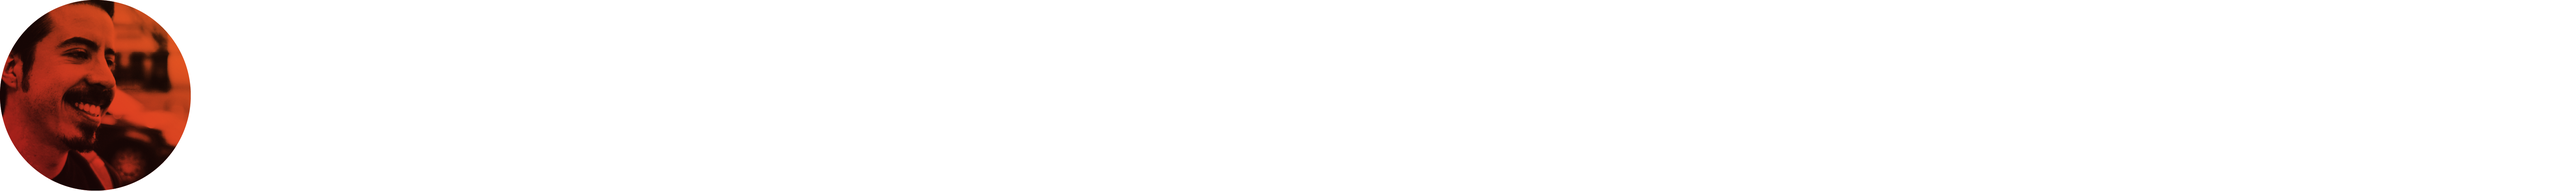
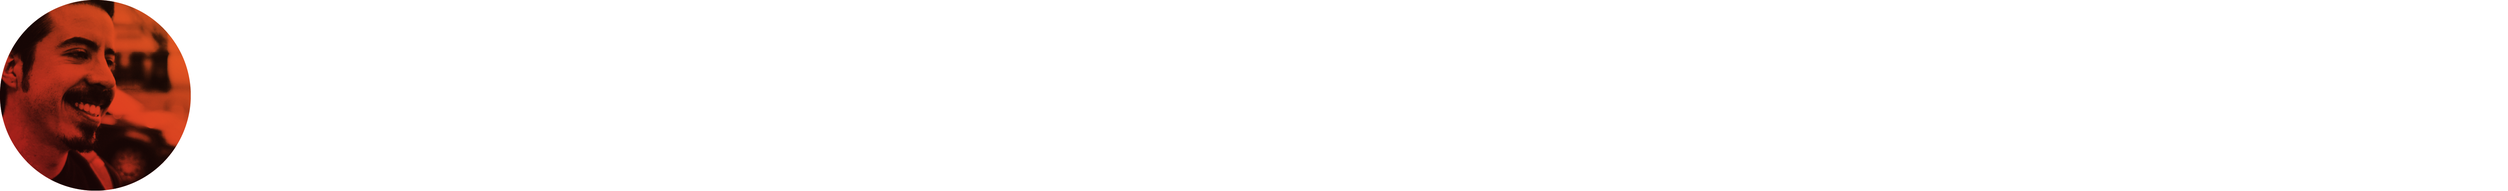
I think I figured out the dialogue sacling :cry:

Changed region(s): [[0.0, 0.1796, 0.0936, 0.7784], [0.0312, 0.8084, 0.0624, 1.0], [0.0312, 0.0, 0.0624, 0.1198]]

diff --git a/css/main.css b/css/main.css
@@ -245,6 +245,7 @@ h1:hover{
   height:100px;
   background-size: 500px;
   background-repeat: no-repeat;
+  top: 91.5vh;
   bottom: -100vh;
   margin-left: 0.3em;
   position: absolute;

diff --git a/css/botchat.css b/css/botchat.css
@@ -15,7 +15,7 @@
     bottom: -37em;
     height: 95vh;
     position: absolute;
-    width: 30em;
+    width: 30rem;
     z-index: 1;
   }
 
